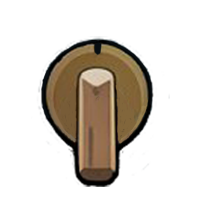
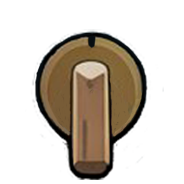
añadido el boton, corregido el que se me desplazaban los diales al rreducir el tamaño de la pantalla

Changed region(s): [[0.163, 0.163, 0.8152, 0.9783]]

diff --git a/safebox_puzzle-main/src/components/MainScreen.jsx b/safebox_puzzle-main/src/components/MainScreen.jsx
@@ -2,6 +2,7 @@ import React, { useState, useEffect } from 'react';
 import './../assets/scss/main.scss';
 import Dial from './Dial';
 import Ray from './Ray';
+import BoxButton from './BoxButton';
 
 const MainScreen = (props) => {
   const [checking, setChecking] = useState(false);
@@ -12,7 +13,8 @@ const MainScreen = (props) => {
   //
   const [rotationAngle, setRotationAngle] = useState(0); // Estado para la rotación
 
-
+  const dialSpacing = boxWidth * 0.19; // Espaciado horizontal entre los diales
+  const initialPosition = props.appwidth / 2 + boxWidth / 2  * -0.4; // Posición inicial del primer dial desde la derecha
 
   const [isReseting, setIsReseting] = useState(false); // Estado para saber si se está reiniciando el lock
   const [tries, setTries] = useState(0); // Contador de intentos
@@ -105,6 +107,10 @@ const MainScreen = (props) => {
     });}
   } 
 
+  const checkSolution = () => {
+    console.log("Solution: ", solutionArray);
+  }
+
 
   useEffect(() => { // Comprueba si se ha alcanzado el número máximo de intentos (En local y en API)    
     /*TEST_LOCAL ?  
@@ -119,26 +125,27 @@ const MainScreen = (props) => {
         {props.show ? (
           <div>
             <Dial id={"dial-frequency"} boxWidth={boxWidth} boxHeight={boxHeight} checking={checking} 
-              rotationAngle={frequency} setRotationAngle={setFrequency}
-              setSolutionArray={setSolutionArray} isReseting={isReseting}
-              xPosition={"57%"}/>
+              rotationAngle={frequency} setRotationAngle={setFrequency} isReseting={isReseting}
+              xPosition={initialPosition + dialSpacing * 2}/>
             <Dial id={"dial-wavelength"}  boxWidth={boxWidth} boxHeight={boxHeight} checking={checking} 
-              rotationAngle={wavelength} setRotationAngle={setWavelength}
-              setSolutionArray={setSolutionArray} isReseting={isReseting}
-              xPosition={"48%"}/>
+              rotationAngle={wavelength} setRotationAngle={setWavelength} isReseting={isReseting} 
+              xPosition={initialPosition + dialSpacing}/>
             <Dial id={"dial-amplitude"}  boxWidth={boxWidth} boxHeight={boxHeight} checking={checking} 
-              rotationAngle={amplitude} setRotationAngle={setAmplitude}
-              setSolutionArray={setSolutionArray} isReseting={isReseting}
-              xPosition={"39%"}/>
-            <Ray  boxHeight={boxHeight} boxWidth={boxWidth} checking={checking} frequency={frequencyMapped} amplitude={amplitudeMapped} wavelength={wavelengthMapped}/>
+              rotationAngle={amplitude} setRotationAngle={setAmplitude} isReseting={isReseting}
+              xPosition={initialPosition}/>
+            <Ray boxHeight={boxHeight} boxWidth={boxWidth} checking={checking} 
+              frequency={frequencyMapped} amplitude={amplitudeMapped} wavelength={wavelengthMapped}/>
+            <BoxButton value={0} position={initialPosition - dialSpacing} boxWidth={boxWidth} 
+              boxHeight={boxHeight} onClick={checkSolution} appwidth={props.appwidth}  appheight={props.appheight}/>
+
             {/*Audios*/}
             <audio id="audio_failure" src="sounds/access-denied.mp3" autostart="false" preload="auto" />
             <audio id="audio_success" src="sounds/correct.mp3" autostart="false" preload="auto" />
                    
             {/** Luces de correcto o incorrecto*/}
-            <div className="boxlight boxlight_off" style={{ display: light === "off" ? "block" : "none", left: props.appwidth / 2 + boxWidth / 2 * 0.3, top: props.appheight / 2 - boxHeight / 2 * 0.84 }} ></div> 
-            <div className="boxlight boxlight_red" style={{ display: light === "red" ? "block" : "none", left: props.appwidth / 2 + boxWidth / 2 * 0.3, top: props.appheight / 2 - boxHeight / 2 * 0.84 }} ></div> 
-            <div className="boxlight boxlight_green" style={{ display: light === "green" ? "block" : "none", left: props.appwidth / 2 + boxWidth / 2 * 0.3, top: props.appheight / 2 - boxHeight / 2 * 0.84 }} ></div> 
+            <div className="boxlight boxlight_off" style={{ display: light === "off" ? "block" : "none", left: props.appwidth / 2 + boxWidth / 2 * 0.5, bottom: props.appheight / 2 - boxHeight / 2 * 0.52 }} ></div> 
+            <div className="boxlight boxlight_red" style={{ display: light === "red" ? "block" : "none", left: props.appwidth / 2 + boxWidth / 2 * 0.5, bottom: props.appheight / 2 - boxHeight / 2 * 0.52 }} ></div> 
+            <div className="boxlight boxlight_green" style={{ display: light === "green" ? "block" : "none", left: props.appwidth / 2 + boxWidth / 2 * 0.5, bottom: props.appheight / 2 - boxHeight / 2 * 0.52 }} ></div> 
         </div>) : null}
     </div>);
 };

diff --git a/safebox_puzzle-main/src/components/BoxButton.jsx b/safebox_puzzle-main/src/components/BoxButton.jsx
@@ -2,10 +2,16 @@ import React from 'react';
 
 const BoxButton = (props) => {
   return (
-    <div className={"boxButton boxButton" + props.position} onClick={() => props.onClick(props.value)} style={{ width: props.boxWidth * 0.06, height: props.boxHeight * 0.1 }}>
-      <li>
+    <div className={"boxButton boxButton"} onClick={() => props.onClick()} 
+        style={{ width: props.boxWidth *0.1 , height: props.boxHeight *0.1,
+        position: "absolute",
+        left: props.appwidth / 2 + props.boxWidth / 2 *0.45,
+        bottom: props.appheight / 2 - props.boxHeight / 2 *0.8,
+        cursor: "pointer",
+        }}>
+      {/*<li>
         <p>{props.value}</p>
-      </li>
+      </li>*/}
     </div>
   );
 };

diff --git a/safebox_puzzle-main/src/assets/scss/main.scss b/safebox_puzzle-main/src/assets/scss/main.scss
@@ -14,8 +14,8 @@ div.dial{
 	background-position: center;
 	background-repeat: no-repeat;
 	background-size: contain;
-	display: flex;
-	position: relative;
+	/*display: flex;*/
+	/*position: relative;*/
 	pointer-events: none;
 	//top: 21%;
 }
@@ -53,6 +53,16 @@ div.boxlight {
 	text-decoration: none;
 	border-image: none;
 
+}
+
+div.boxButton{
+	background-image: url("../images/button.png");
+	background-position: center;
+	background-repeat: no-repeat;
+	background-size: contain;
+	/*display: flex;*/
+	/*position: relative;*/
+	//top: 21%;
 }
 
 div.boxlight.boxlight_off {

diff --git a/safebox_puzzle-main/src/components/Dial.jsx b/safebox_puzzle-main/src/components/Dial.jsx
@@ -92,7 +92,7 @@ const  Dial = ( props ) => {
             //top: props.boxHeight * 0.33,
             //left: props.appwidth / 2 + props.boxWidth / 2 * 0.1,
             right: props.xPosition,
-            top: "70%",
+            top: "71%",
             
             cursor: "pointer",
             position: "absolute",}}
